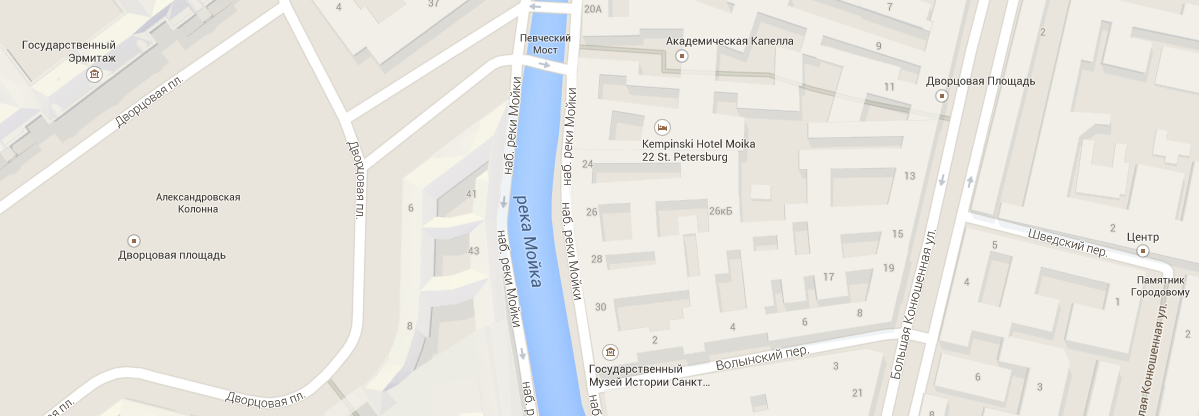
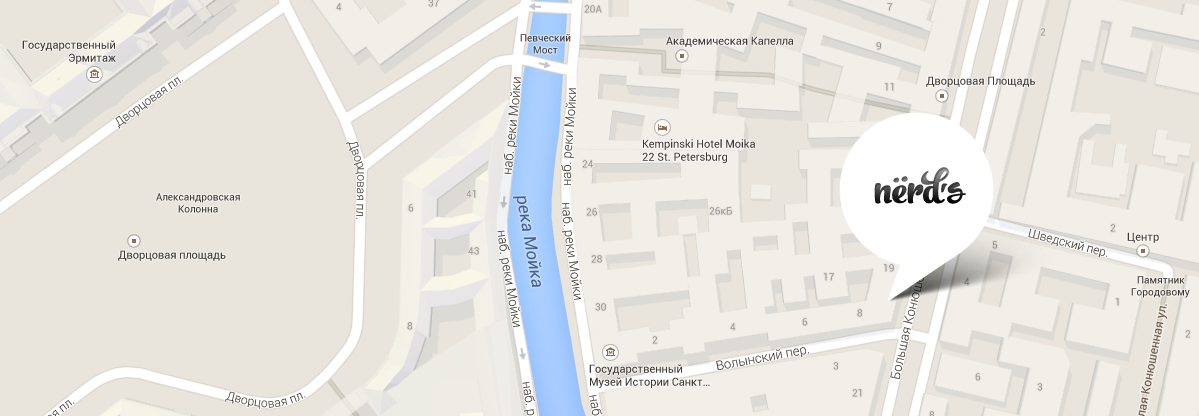
# grid nerds: use static map as background;

Changed region(s): [[0.6789, 0.25, 0.8641, 0.7188]]

diff --git a/css/style.css b/css/style.css
@@ -779,6 +779,11 @@ h4 {
 }
 .map-container {
   width: 100%;
+
+  background-color: #ffffff;
+  background-image: url(../img/contacts-map.png);
+  background-repeat: no-repeat;
+  background-position: 50% 0;
 }
 
 .contacts-holder {
